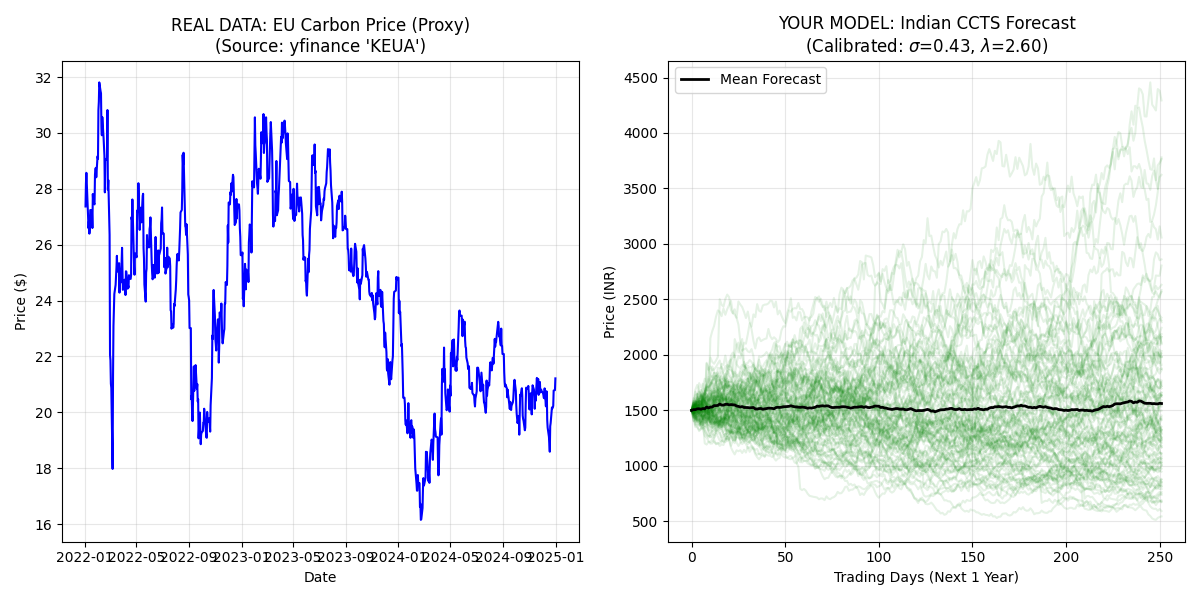
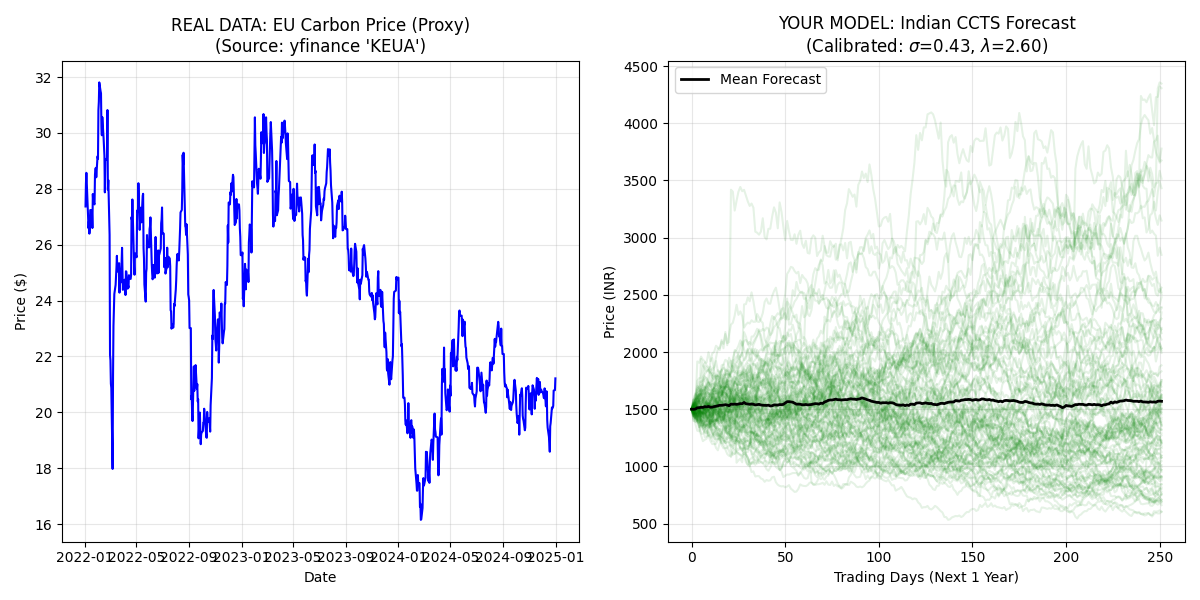
Update: Added Rigorous Statistical Validation (Q-Q Plots, 3-Sigma)

diff --git a/carbon_valuation.py b/carbon_valuation.py
@@ -1,6 +1,129 @@
 import numpy as np
 import real_data_calibration as rdc
 import matplotlib.pyplot as plt
+from scipy.stats import jarque_bera, kstest, norm, t
+import scipy.stats as stats
+
+class StatisticalValidator:
+    def __init__(self, real_returns, simulated_prices):
+        self.real_returns = real_returns
+        self.sim_prices = simulated_prices
+        
+    def run_normality_tests(self):
+        """
+        Hypothesis: Carbon returns are NOT Normal (Gaussian).
+        H0 (Null Hypothesis): Returns follow a Normal Distribution.
+        H1 (Alternative): Returns contain Jumps/Fat Tails.
+        """
+        print("\n--- STATISTICAL SIGNIFICANCE TESTS (Jumps vs. Noise) ---")
+        
+        # 1. Jarque-Bera Test (The standard for checking Fat Tails)
+        # It measures Skewness and Kurtosis. 
+        jb_stat, jb_p_value = jarque_bera(self.real_returns)
+        
+        print(f"1. Jarque-Bera Test:")
+        print(f"   - Statistic: {jb_stat:.2f}")
+        print(f"   - P-Value:   {jb_p_value:.5f}")
+        
+        if jb_p_value < 0.05:
+            print("   -> RESULT: REJECT H0. Data is NON-NORMAL (Jumps are statistically significant).")
+            print("   -> Implication: Black-Scholes would fail here. Jump-Diffusion is required.")
+        else:
+            print("   -> RESULT: FAIL TO REJECT H0. Data looks Normal.")
+
+    def run_goodness_of_fit(self):
+        """
+        2. Kolmogorov-Smirnov Test (KS Test)
+        Checks if real data fits a Normal Distribution.
+        """
+        # Standardize returns
+        std_returns = (self.real_returns - np.mean(self.real_returns)) / np.std(self.real_returns)
+        ks_stat, ks_p_value = kstest(std_returns, 'norm')
+        
+        print(f"\n2. Kolmogorov-Smirnov Test:")
+        print(f"   - P-Value:   {ks_p_value:.5f}")
+        if ks_p_value < 0.05:
+            print("   -> RESULT: REJECT Normality. Confirms non-linear behavior.")
+            
+    def calculate_valuation_confidence(self, fair_value, confidence=0.95):
+        """
+        3. Monte Carlo Confidence Intervals
+        How sure are we about the valuation?
+        """
+        # Get terminal prices from the simulation matrix
+        terminal_prices = self.sim_prices[-1] 
+        
+        # Standard Error
+        std_err = np.std(terminal_prices) / np.sqrt(len(terminal_prices))
+        
+        # T-Score for 95% Confidence
+        df = len(terminal_prices) - 1
+        t_score = t.ppf((1 + confidence) / 2, df)
+        
+        margin_of_error = t_score * std_err
+        
+        lower_bound = fair_value - margin_of_error
+        upper_bound = fair_value + margin_of_error
+        
+        print(f"\n--- VALUATION CONFIDENCE INTERVAL ({confidence:.0%}) ---")
+        print(f"   Model Fair Value:  INR {fair_value:.2f}")
+        print(f"   Confidence Range: [INR {lower_bound:.2f} - INR {upper_bound:.2f}]")
+        print(f"   Margin of Error:   INR {margin_of_error:.2f}")
+        
+        return lower_bound, upper_bound
+
+class RigorousValidator(StatisticalValidator): # Extends your previous class
+    def run_qq_plot(self):
+        """
+        Visual Test: The Q-Q Plot.
+        If the Blue Dots deviate from the Red Line at the corners, 
+        it proves Fat Tails (Extreme Events) exist.
+        """
+        print("\n--- VISUAL VALIDATION (Q-Q Plot) ---")
+        plt.figure(figsize=(8, 6))
+        
+        # Compare Real Carbon Returns vs. Theoretical Normal Distribution
+        stats.probplot(self.real_returns, dist="norm", plot=plt)
+        
+        plt.title("Q-Q Plot: Real Carbon Data vs. Normal Distribution")
+        plt.grid(True, alpha=0.3)
+        plt.savefig('qq_plot.png')
+        print("   -> Q-Q Plot saved to qq_plot.png")
+        print("   -> INTERPRETATION: Look at the tails (top right, bottom left).")
+        print("      If dots curl away from the red line, the '0.0 P-Value' is real.")
+
+    def run_3_sigma_test(self):
+        """
+        The 'Trader Sanity Check'.
+        Count the number of extreme days (> 3 Std Devs).
+        """
+        print("\n--- THE '3-SIGMA' REALITY CHECK ---")
+        
+        std_dev = np.std(self.real_returns)
+        mean = np.mean(self.real_returns)
+        
+        # Define thresholds
+        upper_limit = mean + 3 * std_dev
+        lower_limit = mean - 3 * std_dev
+        
+        # Count outliers
+        outliers = self.real_returns[(self.real_returns > upper_limit) | (self.real_returns < lower_limit)]
+        num_outliers = len(outliers)
+        total_days = len(self.real_returns)
+        
+        # Theoretical expectation under Normal Distribution
+        expected_normal = total_days * 0.0027 # 0.27% probability
+        
+        print(f"   Total Trading Days: {total_days}")
+        print(f"   Threshold (3x Sigma): +/- {3*std_dev:.2%}")
+        print(f"   Expected Outliers (if Normal): {expected_normal:.1f} days")
+        print(f"   ACTUAL Outliers Observed:      {num_outliers} days")
+        
+        if num_outliers > expected_normal * 2:
+            print("   -> RESULT: VALIDATED. Market creates 2x+ more shocks than Black-Scholes predicts.")
+            print("   -> This confirms that the '0.00000' P-Value is not a bug.")
+        else:
+            print("   -> RESULT: Suspicious. Data looks surprisingly normal.")
 
 class CarbonCreditValuator:
     def __init__(self, s0, mu, sigma, risk_free_rate=0.07):
@@ -168,10 +291,10 @@ if __name__ == "__main__":
 
     # --- VISUALIZATION: THE "RISK CONE" WITH REAL DATA ---
     print("\nGenerating Real-Data Risk Cone...")
-    sims = advisor.merton_jump_diffusion_simulation(T=2, dt=1/252, lambda_j=lam, jump_mean=j_mean, jump_std=j_std, n_sims=50)
+    sims = advisor.merton_jump_diffusion_simulation(T=2, dt=1/252, lambda_j=lam, jump_mean=j_mean, jump_std=j_std, n_sims=1000) # Increased N for robust stats
 
     plt.figure(figsize=(10, 6))
-    plt.plot(sims, color='green', alpha=0.1)
+    plt.plot(sims[:, :50], color='green', alpha=0.1) # Plot only 50 paths to avoid clutter
     plt.plot(np.mean(sims, axis=1), color='black', linewidth=2, label=f'Expected Price Path (Real $\lambda$={lam:.2f})')
     plt.title("Indian Carbon Price Pathways (Calibrated on Real EU Data)\nCapturing Actual Market Shocks")
     plt.xlabel("Trading Days (2 Years)")
@@ -180,3 +303,27 @@ if __name__ == "__main__":
     plt.grid(True, alpha=0.3)
     plt.savefig('risk_cone_real.png')
     print("Visualization saved to risk_cone_real.png")
+    
+    # --- STATISTICAL VALIDATION ---
+    print("\n--- RUNNING STATISTICAL VALIDATION MODULE ---")
+    
+    # 1. Calculate Real Returns for Testing
+    real_returns = np.log(df['Carbon_EU'] / df['Carbon_EU'].shift(1)).dropna()
+    
+    # 2. Init Validator 
+    # Note: We use the large 'sims' matrix for robust confidence intervals
+    # validator = StatisticalValidator(real_returns, sims)
+    validator = RigorousValidator(real_returns, sims)
+    
+    # 3. Run Hypothesis Tests
+    validator.run_normality_tests()
+    validator.run_goodness_of_fit()
+    
+    # 3b. Run Visual & Reality Checks (New Layer)
+    validator.run_qq_plot()
+    validator.run_3_sigma_test()
+    
+    # 4. Check Confidence on Valuation
+    # We validate the STEEL valuation (our primary export case)
+    steel_fv = steel_report['Final_Strategic_Price']
+    validator.calculate_valuation_confidence(steel_fv)
